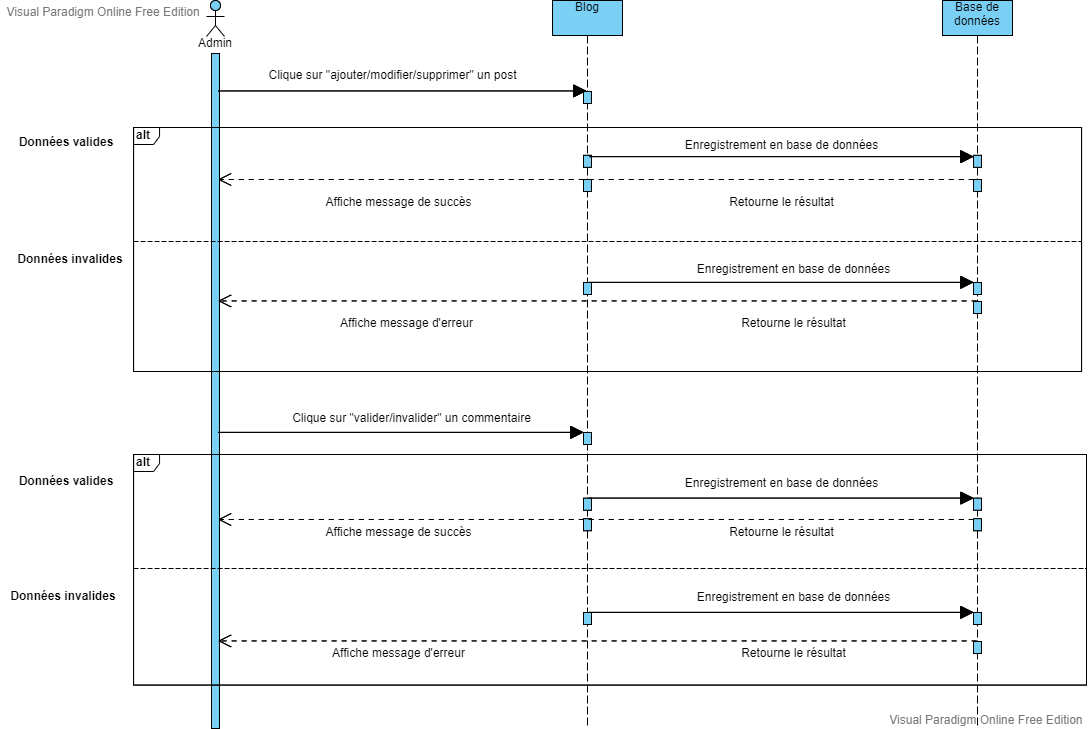
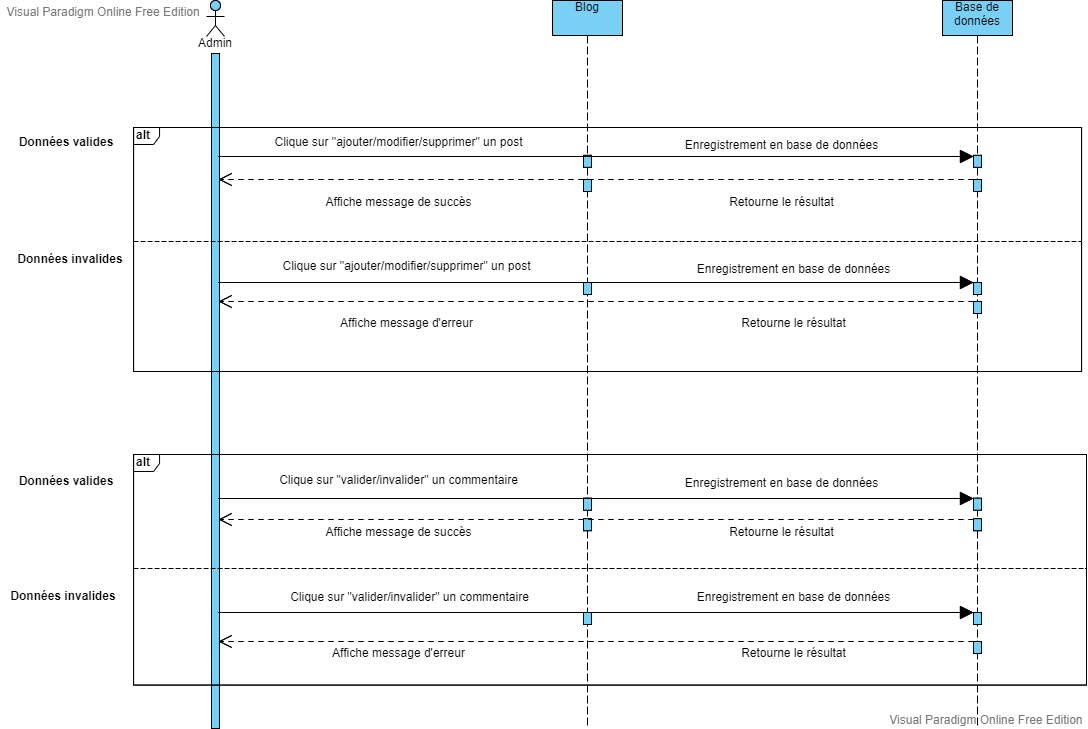
diagrams + validate comment as unknow user + slug delete/update

diff --git a/src/Controller/Backoffice/CommentController.php b/src/Controller/Backoffice/CommentController.php
@@ -15,6 +15,7 @@ use App\Service\Paginator;
 use App\View\View;
 use App\Model\Repository\PostRepository;
 use App\Model\Repository\CommentRepository;
+use function Couchbase\defaultDecoder;
 
 final class CommentController
 {
@@ -84,9 +85,9 @@ final class CommentController
         );
     }
 
-    public function deleteComment(int $idComment): Response
+    public function deleteComment(string $slugComment): Response
     {
-        $comment = $this->commentRepository->findOneBy(['id' => $idComment]);
+        $comment = $this->commentRepository->findOneBy(['slugComment' => $slugComment]);
 
         if ($comment !== null) {
             $resultDelete = $this->commentRepository->delete($comment);
@@ -101,9 +102,9 @@ final class CommentController
         return $this->commentList();
     }
 
-    public function validateComment(int $idComment): Response
+    public function validateComment(string $slugComment): Response
     {
-        $comment = $this->commentRepository->findOneBy(['id' => $idComment]);
+        $comment = $this->commentRepository->findOneBy(['slugComment' => $slugComment]);
 
         if ($comment !== null) {
             $comment->setIsChecked('Oui');
@@ -118,9 +119,9 @@ final class CommentController
         return $this->commentList();
     }
 
-    public function unvalidateComment(int $idComment): Response
+    public function unvalidateComment(string $slugComment): Response
     {
-        $comment = $this->commentRepository->findOneBy(['id' => $idComment]);
+        $comment = $this->commentRepository->findOneBy(['slugComment' => $slugComment]);
 
         if ($comment !== null) {
             $comment->setIsChecked('Non');

diff --git a/src/Model/Repository/CommentRepository.php b/src/Model/Repository/CommentRepository.php
@@ -173,8 +173,10 @@ final class CommentRepository implements EntityRepositoryInterface
                 $criteria[$key] = $value;
             } elseif ($key === 'createdDate') {
                 $criteria[$key] = $value->format('Y-m-d H:i:s');
-            } elseif ($key === 'id_user') {
+            } elseif ($key === 'id_user' && $value->id_utilisateur !== 0) {
                 $criteria['id_user'] = $value->id_utilisateur;
+            } elseif ($key === 'id_user' && $value->id_utilisateur === 0) {
+                $criteria['id_user'] = null;
             } elseif ($key === 'post_id') {
                 $criteria['post_id'] = $value->id_post;
             }

diff --git a/src/Controller/Backoffice/UserAdminController.php b/src/Controller/Backoffice/UserAdminController.php
@@ -204,13 +204,13 @@ final class UserAdminController
         );
     }
 
-    public function deleteUser(int $idUser): Response
+    public function deleteUser(string $slugUser): Response
     {
         if (!$this->security->loggedAs('Dev')) {
             $this->redirect->redirect('/forbidden');
         }
 
-        $user = $this->userRepository->findOneBy(['id_utilisateur' => $idUser]);
+        $user = $this->userRepository->findOneBy(['slugUser' => $slugUser]);
 
         if ($user !== null) {
             $resultDelete = $this->userRepository->delete($user);

diff --git a/src/Controller/Backoffice/PostAdminController.php b/src/Controller/Backoffice/PostAdminController.php
@@ -197,10 +197,10 @@ final class PostAdminController
         );
     }
 
-    public function deletePost(int $idPost): Response
+    public function deletePost(string $slugPost): Response
     {
 
-        $post = $this->postRepository->findOneBy(['id_post' => $idPost]);
+        $post = $this->postRepository->findOneBy(['slugPost' => $slugPost]);
 
         if ($post !== null) {
             $resultDelete = $this->postRepository->delete($post);
